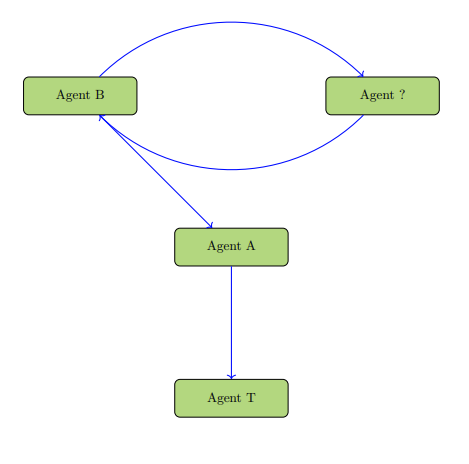
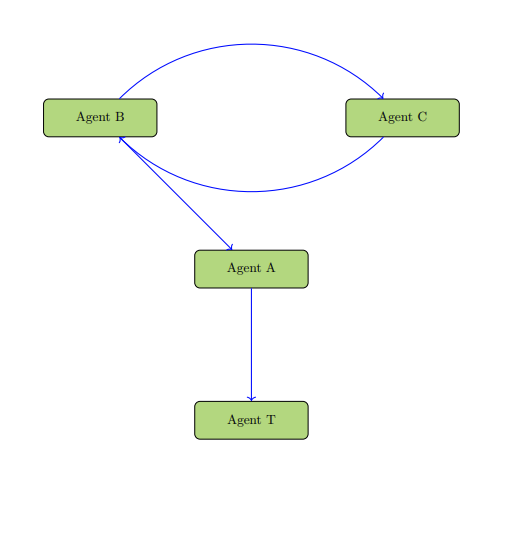
.

Changed region(s): [[0.0299, 0.0302, 0.9552, 0.9052], [0.5672, 0.0603, 0.6567, 0.1207]]

diff --git a/README.html b/README.html
@@ -1207,7 +1207,7 @@ of its growth process is ascribed to the realm of &quot;natural
 activity&quot;. The unidirectional source of influence for Agent
 A's cutting actions is from Agent B's convolutional
 decision-making process, that which involves contributions
-from Agent Q.</p>
+from Agent C.</p>
 <p><img src="file:///c:\Users\Rpg4p\source\nu_merchant_principal\images\gtt_flow_diagram.PNG" alt="image info"></p>
 <p><strong>GTTD</strong> Flow-diagram for Game of Tree-Trimming.</p>
 

diff --git a/README.md b/README.md
@@ -882,7 +882,7 @@ of its growth process is ascribed to the realm of "natural
 activity". The unidirectional source of influence for Agent 
 A's cutting actions is from Agent B's convolutional 
 decision-making process, that which involves contributions 
-from Agent Q. 
+from Agent C. 
 
 ![image info](./images/gtt_flow_diagram.PNG)
 
